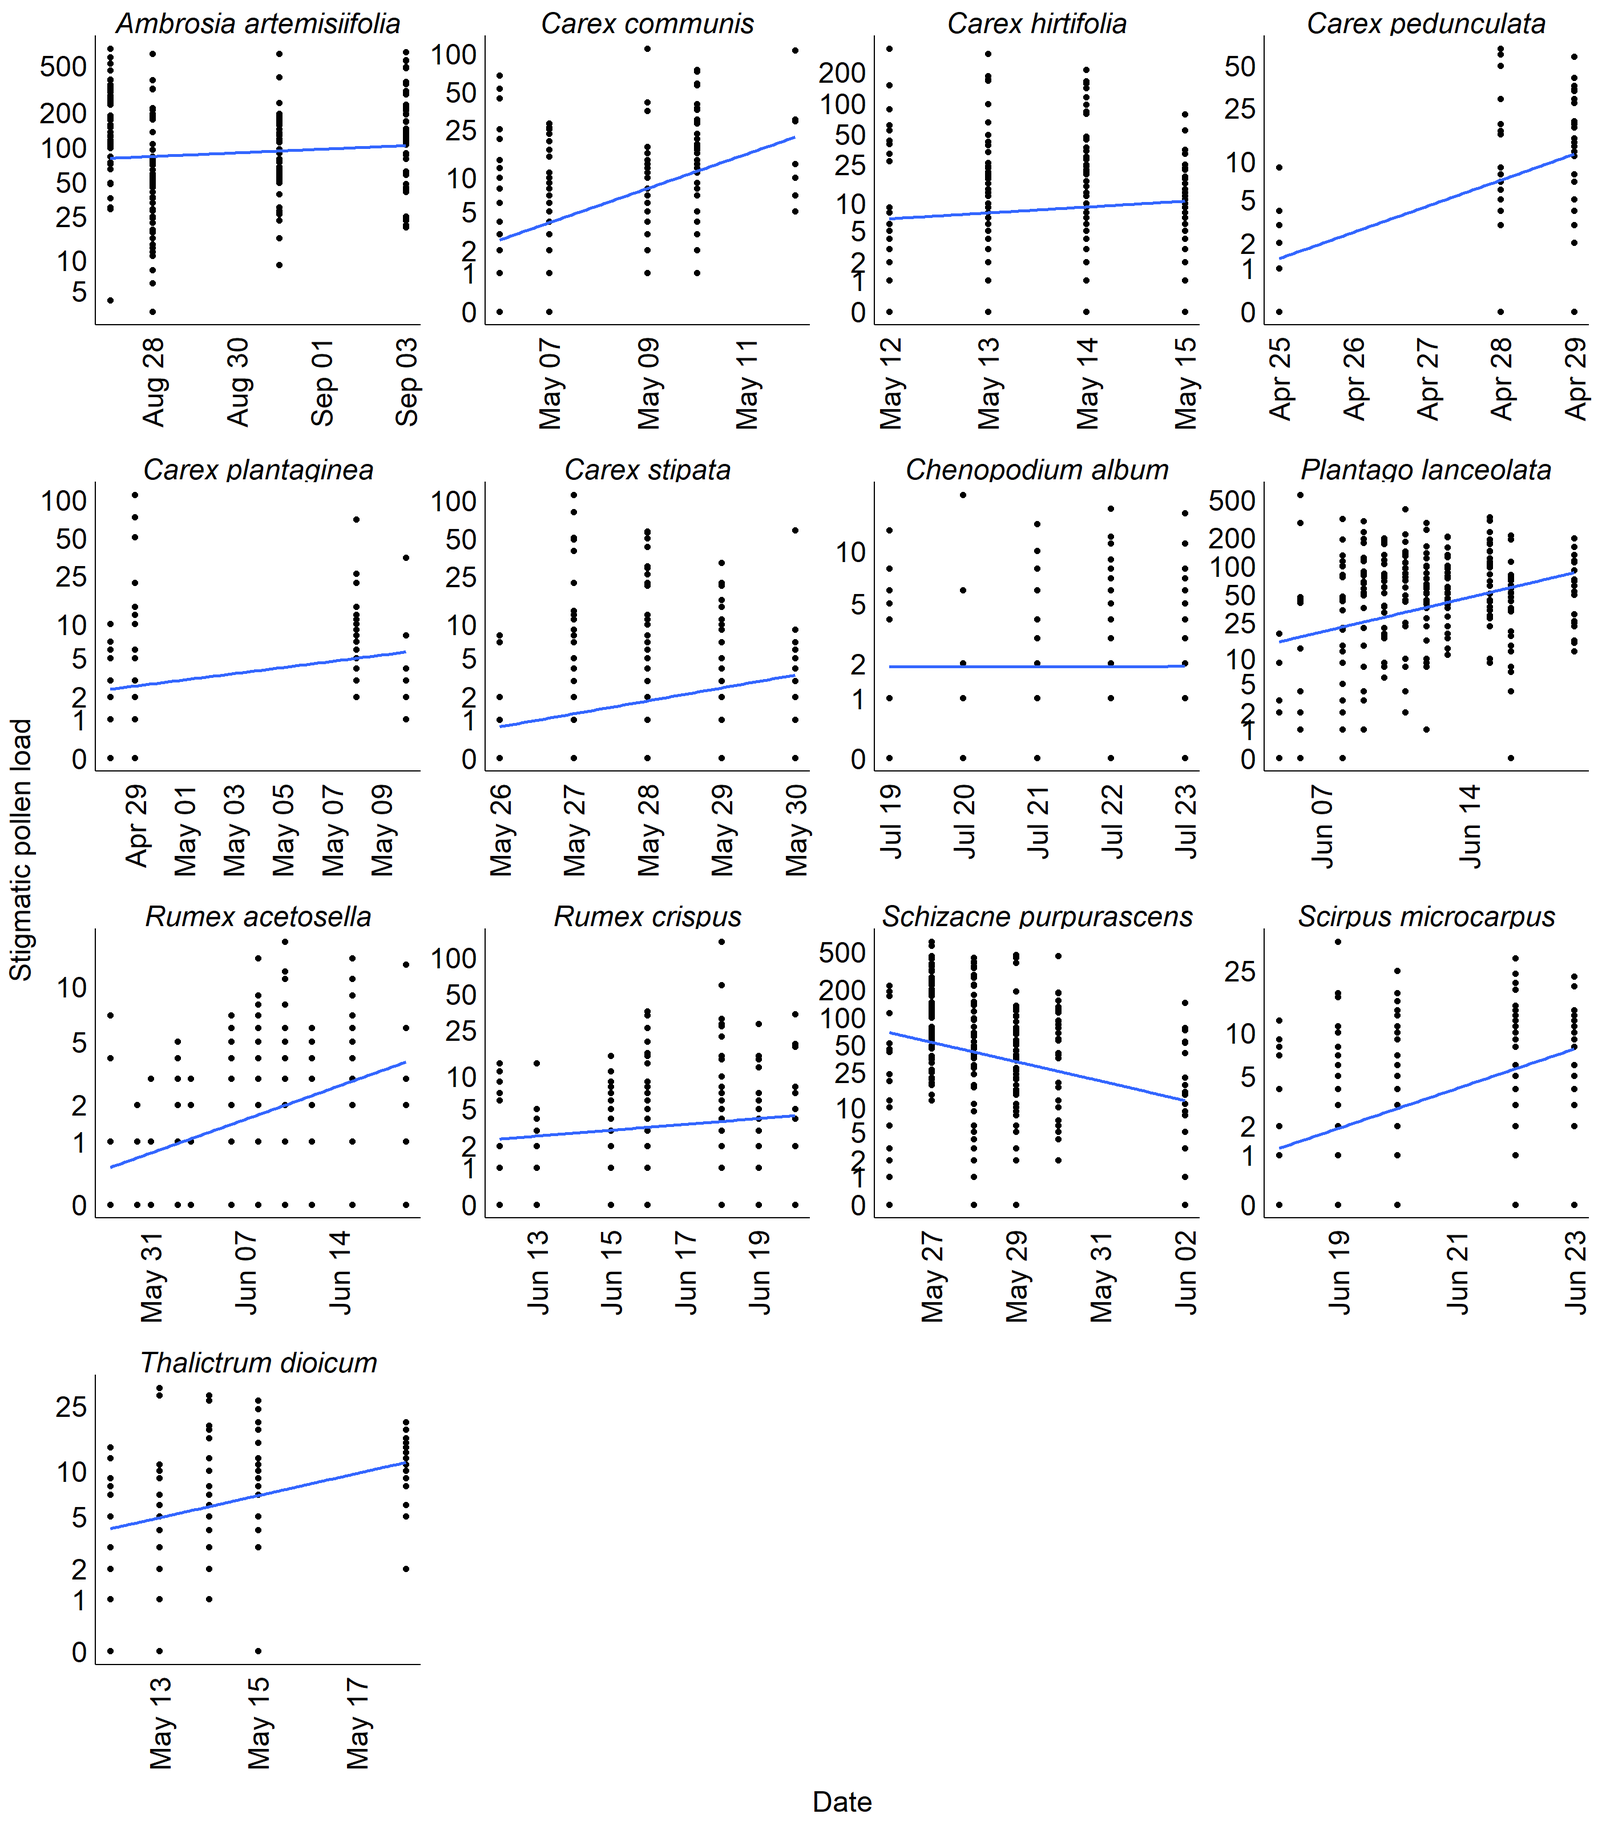
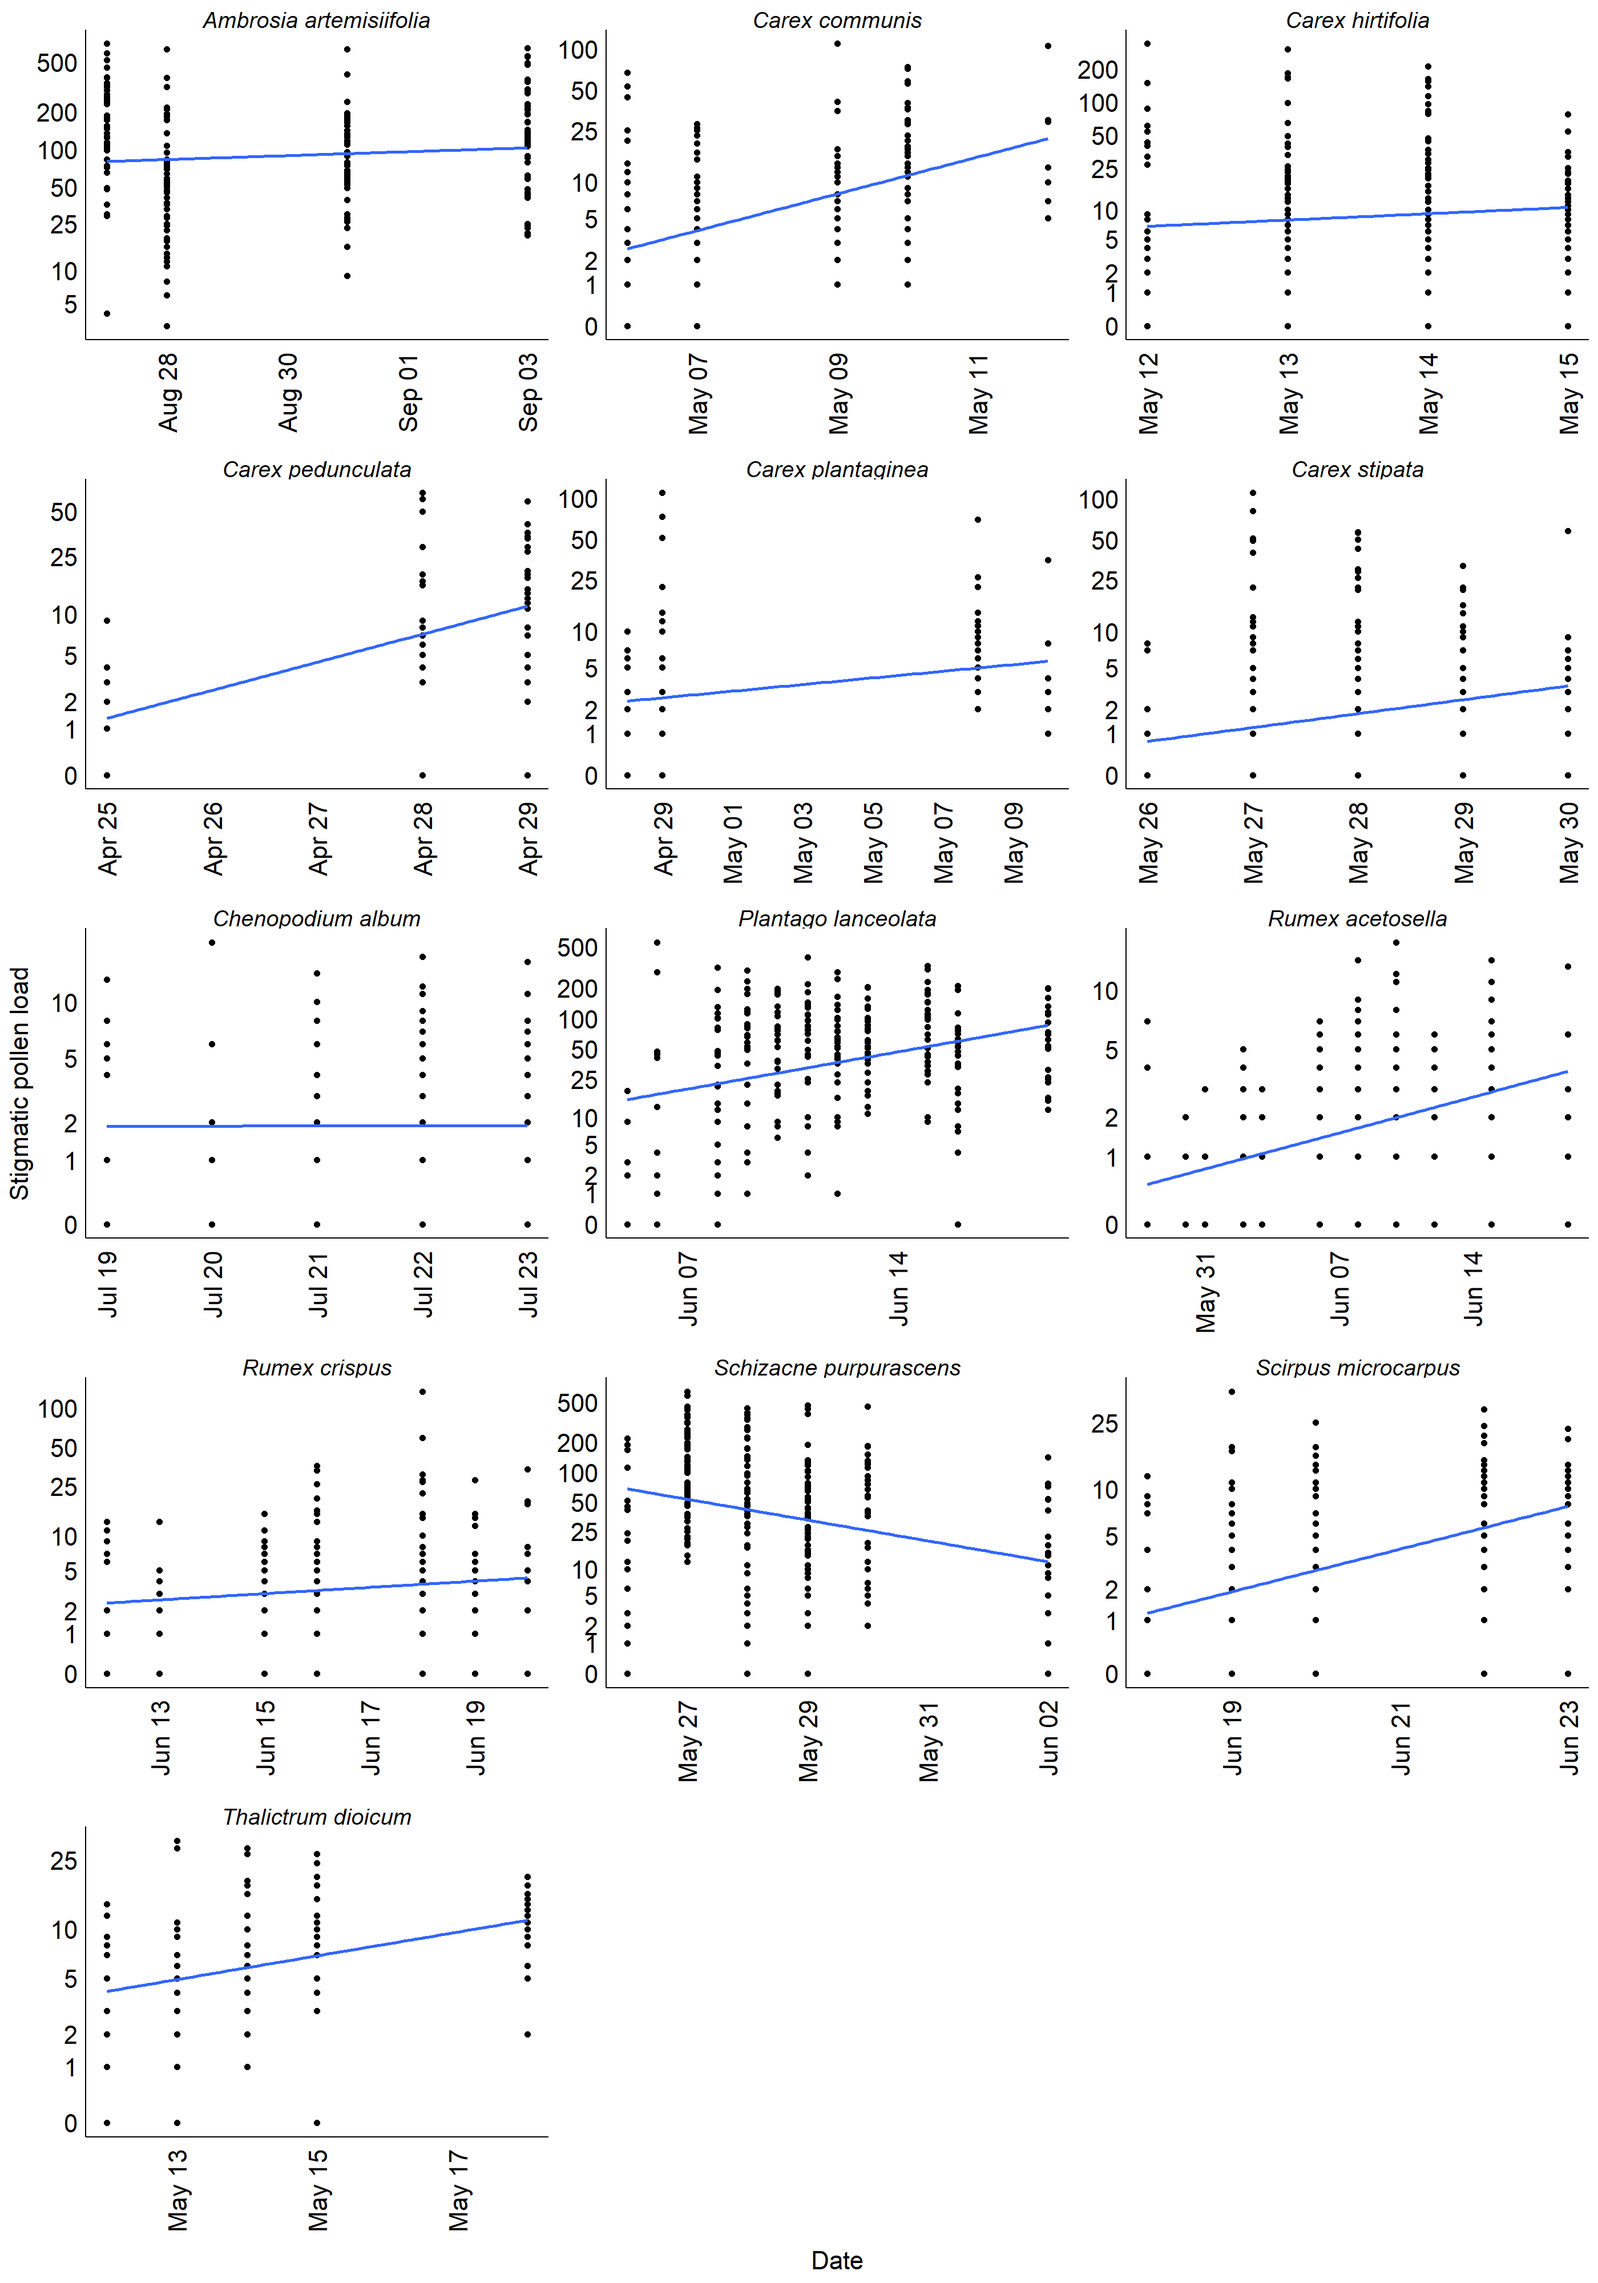
update summary figures for stigma length to make prettier

diff --git a/anal-stig-full-allmods.md b/anal-stig-full-allmods.md
@@ -39,23 +39,21 @@ stigl2 <- stigl %>% filter(Species != "Carex hirtifolia" |
                             (Species == "Carex hirtifolia" & Stigma_length>0.5))
 ```
 
-### post
-
 ``` r
 stigl %>% 
   ggplot(aes(x=Stigma_length, y=Log_flw_pollen)) + 
   geom_point() + 
   geom_smooth(method="lm", se=F) + 
-  facet_wrap(~Species, scales = "free", ncol=4) + 
+  facet_wrap(~Species, scales = "free", ncol=3) + 
   scale_y_continuous(name="Stigmatic pollen load",
                      breaks = log(c(0,1,2,5,10,25,50,100,200,500,1000, 2500)+1),
                      labels = c(0,1,2,5,10,25,50,100,200,500,1000, 2500)) +
   scale_x_continuous(name = "Stigma length (cm)") +
-  theme_cs(font = "sans", fontsize=18) + 
+  theme_cs(font = "sans", fontsize=16) + 
   theme(strip.background = element_rect(linewidth = NULL,
                                         linetype = NULL,
                                         colour = "white"),
-        strip.text = element_text(size = 18, face="italic"))
+        strip.text = element_text(size = 14, face="italic"))
 ```
 
     ## `geom_smooth()` using formula = 'y ~ x'
@@ -67,16 +65,16 @@ stigl %>%
   ggplot(aes(x=Date, y=Log_flw_pollen)) + 
   geom_point() + 
   geom_smooth(method="lm", se=F) + 
-  facet_wrap(~Species, scales = "free", ncol=4) + 
+  facet_wrap(~Species, scales = "free", ncol=3) + 
   scale_y_continuous(name="Stigmatic pollen load",
                      breaks = log(c(0,1,2,5,10,25,50,100,200,500,1000, 2500)+1),
                      labels = c(0,1,2,5,10,25,50,100,200,500,1000, 2500)) +
   scale_x_date(name = "Date")+ 
-  theme_cs(font = "sans", fontsize=18) + 
+  theme_cs(font = "sans", fontsize=16) + 
   theme(strip.background = element_rect(linewidth = NULL,
                                         linetype = NULL,
                                         colour = "white"),
-        strip.text = element_text(size = 18, face="italic"),
+        strip.text = element_text(size = 14, face="italic"),
         axis.text.x = element_text(angle = 90, hjust = 1, vjust = 0.5))
 ```
 
@@ -94,11 +92,11 @@ stigl %>%
                      breaks = log(c(0,1,2,5,10,25,50,100,200,500,1000, 2500)+1),
                      labels = c(0,1,2,5,10,25,50,100,200,500,1000, 2500)) +
   scale_x_continuous(name = "Max plant height (cm)")+ 
-  theme_cs(font = "sans", fontsize=18) + 
+  theme_cs(font = "sans", fontsize=16) + 
   theme(strip.background = element_rect(linewidth = NULL,
                                         linetype = NULL,
                                         colour = "white"),
-        strip.text = element_text(size = 18, face="italic"))
+        strip.text = element_text(size = 14, face="italic"))
 ```
 
     ## `geom_smooth()` using formula = 'y ~ x'
@@ -114,23 +112,155 @@ stigl %>%
   scale_y_continuous(name="Stigmatic pollen load",
                      breaks = log(c(0,1,2,5,10,25,50,100,200,500,1000, 2500)+1),
                      labels = c(0,1,2,5,10,25,50,100,200,500,1000, 2500)) +
-  scale_x_continuous(name = "1/average distance to nearest pollen-producing neighbour (1/cm)")+ 
-  theme_cs(font = "sans", fontsize=18) + 
+  scale_x_continuous(name = "Inverse average distance to nearest pollen-producing neighbour (1/cm)")+ 
+  theme_cs(font = "sans", fontsize=16) + 
   theme(strip.background = element_rect(linewidth = NULL,
                                         linetype = NULL,
                                         colour = "white"),
-        strip.text = element_text(size = 18, face="italic"))
+        strip.text = element_text(size = 14, face="italic"))
 ```
 
     ## `geom_smooth()` using formula = 'y ~ x'
 
 ![](anal-stig-full-allmods_files/figure-gfm/all%20inv%20avg%20dist%20plots-1.png)<!-- -->
 
+``` r
+# stigl %>% 
+#   filter(Species=="Rumex acetosella") %>% 
+#   ggplot(aes(x=Avg_dist, y=Flw_pollen)) + 
+#   geom_point() + 
+#   geom_smooth(method="lm", se=F, formula = log(y+1) ~ 1/x) + 
+#   facet_wrap(~Species, scales = "free", ncol=3) + 
+#   # scale_y_continuous(name="Stigmatic pollen load",
+#   #                    breaks = log(c(0,1,2,5,10,25,50,100,200,500,1000, 2500)+1),
+#   #                    labels = c(0,1,2,5,10,25,50,100,200,500,1000, 2500)) +
+#   scale_x_continuous(name = "Inverse average distance to nearest pollen-producing neighbour (1/cm)")+ 
+#   theme_cs(font = "sans", fontsize=16) + 
+#   theme(strip.background = element_rect(linewidth = NULL,
+#                                         linetype = NULL,
+#                                         colour = "white"),
+#         strip.text = element_text(size = 14, face="italic"))
+```
+
 Run models all at once to get coefficient summaries easily:
 
 ``` r
 #nest data by species to make it easier to handle
-by_spp_stig <- stigl %>% group_by(Species, Sex_sys) %>% 
+by_spp <- stigl %>% group_by(Species, Sex_sys) %>% 
   nest() %>% 
   arrange(Sex_sys, Species)
+```
+
+Now I’ll run linear models predicting pollen production by pollen size,
+and pull out the ones with a significant relationship.
+
+``` r
+# , cols.print=14
+library(broom.mixed)
+#define function to run model 
+spp_model <- function(df) {
+  lmer(Log_flw_pollen ~ Infl_max + Stigma_length + Date + Inv_avg_dist + (1|Plant), data=df)
+}
+
+#run models and add model to by_spp dataframe
+by_spp <- by_spp %>% 
+  mutate(model = purrr::map(data, spp_model)) %>% 
+  arrange(Sex_sys, Species) # arrange in order of sex sys, then alphabetical
+```
+
+    ## boundary (singular) fit: see help('isSingular')
+    ## boundary (singular) fit: see help('isSingular')
+
+    ## Warning: There were 10 warnings in `mutate()`.
+    ## The first warning was:
+    ## ℹ In argument: `model = purrr::map(data, spp_model)`.
+    ## ℹ In group 1: `Species = Ambrosia artemisiifolia`, `Sex_sys = monoecious`.
+    ## Caused by warning:
+    ## ! Some predictor variables are on very different scales: consider rescaling
+    ## ℹ Run `dplyr::last_dplyr_warnings()` to see the 9 remaining warnings.
+
+``` r
+#get model summary using glance() from "broom"
+glance <- by_spp %>% 
+  mutate(glance = purrr::map(model, broom.mixed::glance)) %>% #need to use broom.mixed::glance for mixed model
+  unnest(glance)
+# put this in a viewable format (remove nested data and model info)
+glancetab <- glance %>% select(-c(data, model)) %>% 
+  arrange(Sex_sys, Species)
+
+#save this in a new table without the ugly list elements, which I can print to a file
+glancetab_write <- glance %>% select(-c(data, model)) %>% 
+  arrange(Sex_sys, Species) %>% apply(2, as.character) # coercing all columns to characters so that I can write this to a file
+write.csv(glancetab_write, "processed-data/stigfull-reg-model-sum.csv", row.names = F)
+#take a look
+# print(glancetab, n=Inf)
+
+#similar - but using broom::tidy(), gives me model coefficients
+tidy <- by_spp %>% 
+  mutate(tidy = purrr::map(model, broom.mixed::tidy, effects="fixed")) %>% 
+  unnest(tidy)
+tidytab <- tidy %>% select(-c(data, model)) %>% 
+  arrange(Sex_sys, Species)
+print(tidytab, n=46)
+```
+
+    ## # A tibble: 65 × 9
+    ## # Groups:   Species, Sex_sys [13]
+    ##    Species     Sex_sys effect term  estimate std.error statistic     df  p.value
+    ##    <fct>       <fct>   <chr>  <chr>    <dbl>     <dbl>     <dbl>  <dbl>    <dbl>
+    ##  1 Rumex acet… dioeci… fixed  (Int… -7.57e+2   9.43e+1    -8.03  255.   3.49e-14
+    ##  2 Rumex acet… dioeci… fixed  Infl… -1.37e-2   8.58e-3    -1.59   39.6  1.19e- 1
+    ##  3 Rumex acet… dioeci… fixed  Stig…  1.31e+0   3.94e-1     3.33  254.   9.93e- 4
+    ##  4 Rumex acet… dioeci… fixed  Date   6.03e-2   7.50e-3     8.03  255.   3.58e-14
+    ##  5 Rumex acet… dioeci… fixed  Inv_…  1.47e+1   5.41e+0     2.72   35.3  1.00e- 2
+    ##  6 Thalictrum… dioeci… fixed  (Int… -1.81e+3   3.96e+2    -4.57   89.9  1.56e- 5
+    ##  7 Thalictrum… dioeci… fixed  Infl…  2.18e-2   1.49e-2     1.47   12.6  1.67e- 1
+    ##  8 Thalictrum… dioeci… fixed  Stig…  3.41e-1   1.36e-1     2.51   89.9  1.37e- 2
+    ##  9 Thalictrum… dioeci… fixed  Date   1.44e-1   3.16e-2     4.57   89.9  1.56e- 5
+    ## 10 Thalictrum… dioeci… fixed  Inv_…  6.28e+0   1.87e+1     0.336  11.6  7.43e- 1
+    ## 11 Chenopodiu… hermap… fixed  (Int…  3.18e+2   6.60e+2     0.482 144.   6.30e- 1
+    ## 12 Chenopodiu… hermap… fixed  Infl… -3.79e-3   3.79e-3    -1.00  144.   3.19e- 1
+    ## 13 Chenopodiu… hermap… fixed  Stig…  2.58e+0   5.74e-1     4.49  144.   1.46e- 5
+    ## 14 Chenopodiu… hermap… fixed  Date  -2.52e-2   5.23e-2    -0.482 144.   6.31e- 1
+    ## 15 Chenopodiu… hermap… fixed  Inv_… -2.88e+0   4.44e+0    -0.648 144.   5.18e- 1
+    ## 16 Plantago l… hermap… fixed  (Int… -1.81e+3   2.59e+2    -7.00  254.   2.21e-11
+    ## 17 Plantago l… hermap… fixed  Infl… -8.83e-3   1.84e-2    -0.479  26.7  6.36e- 1
+    ## 18 Plantago l… hermap… fixed  Stig…  6.06e-1   1.32e-1     4.59  265.   6.96e- 6
+    ## 19 Plantago l… hermap… fixed  Date   1.44e-1   2.06e-2     7.02  254.   2.04e-11
+    ## 20 Plantago l… hermap… fixed  Inv_… -1.26e+1   1.51e+1    -0.835  26.8  4.11e- 1
+    ## 21 Schizacne … hermap… fixed  (Int…  3.08e+3   6.31e+2     4.88  221.   2.00e- 6
+    ## 22 Schizacne … hermap… fixed  Infl…  2.25e-2   2.48e-2     0.909  27.8  3.71e- 1
+    ## 23 Schizacne … hermap… fixed  Stig…  1.07e-1   3.05e-1     0.350 234.   7.27e- 1
+    ## 24 Schizacne … hermap… fixed  Date  -2.45e-1   5.02e-2    -4.88  221.   2.02e- 6
+    ## 25 Schizacne … hermap… fixed  Inv_…  6.68e+1   4.83e+1     1.38   29.5  1.77e- 1
+    ## 26 Ambrosia a… monoec… fixed  (Int… -1.49e+2   2.84e+2    -0.525 212.   6.00e- 1
+    ## 27 Ambrosia a… monoec… fixed  Infl… -7.06e-4   3.97e-3    -0.178  23.9  8.60e- 1
+    ## 28 Ambrosia a… monoec… fixed  Stig…  2.18e-1   1.38e-1     1.58  209.   1.15e- 1
+    ## 29 Ambrosia a… monoec… fixed  Date   1.21e-2   2.25e-2     0.538 212.   5.91e- 1
+    ## 30 Ambrosia a… monoec… fixed  Inv_…  4.67e+0   4.34e+0     1.07   24.3  2.93e- 1
+    ## 31 Carex comm… monoec… fixed  (Int… -3.97e+3   4.54e+2    -8.75  185.   1.27e-15
+    ## 32 Carex comm… monoec… fixed  Infl… -1.87e-2   3.72e-2    -0.502  19.5  6.21e- 1
+    ## 33 Carex comm… monoec… fixed  Stig…  4.59e-1   1.49e-1     3.08  194.   2.35e- 3
+    ## 34 Carex comm… monoec… fixed  Date   3.17e-1   3.62e-2     8.75  185.   1.27e-15
+    ## 35 Carex comm… monoec… fixed  Inv_…  6.33e+0   1.22e+1     0.517  18.9  6.11e- 1
+    ## 36 Carex hirt… monoec… fixed  (Int… -1.22e+3   1.11e+3    -1.10  195.   2.72e- 1
+    ## 37 Carex hirt… monoec… fixed  Infl…  5.67e-2   4.02e-2     1.41   21.7  1.73e- 1
+    ## 38 Carex hirt… monoec… fixed  Stig…  4.45e-1   2.63e-1     1.69  196.   9.30e- 2
+    ## 39 Carex hirt… monoec… fixed  Date   9.74e-2   8.84e-2     1.10  195.   2.72e- 1
+    ## 40 Carex hirt… monoec… fixed  Inv_…  7.76e+0   7.76e+0     1.00   20.3  3.29e- 1
+    ## 41 Carex pedu… monoec… fixed  (Int… -5.85e+3   8.98e+2    -6.52   68.5  9.93e- 9
+    ## 42 Carex pedu… monoec… fixed  Infl… -2.89e-2   8.13e-2    -0.356   9.25 7.30e- 1
+    ## 43 Carex pedu… monoec… fixed  Stig…  1.33e-1   2.00e-1     0.666  70.8  5.08e- 1
+    ## 44 Carex pedu… monoec… fixed  Date   4.67e-1   7.16e-2     6.52   68.5  1.00e- 8
+    ## 45 Carex pedu… monoec… fixed  Inv_…  1.43e+1   3.46e+1     0.412  10.8  6.88e- 1
+    ## 46 Carex plan… monoec… fixed  (Int… -6.45e+2   2.14e+2    -3.02   85.4  3.37e- 3
+    ## # ℹ 19 more rows
+
+``` r
+tidytab_write <- tidy %>% select(-c(data, model)) %>% 
+  arrange(Sex_sys, Species) 
+# %>% apply(2, as.character)
+write.csv(tidytab_write, "processed-data/stigfull-reg-model-coefs.csv", row.names = F)
+#take a look
+# print(tidytab, n=Inf)
 ```
